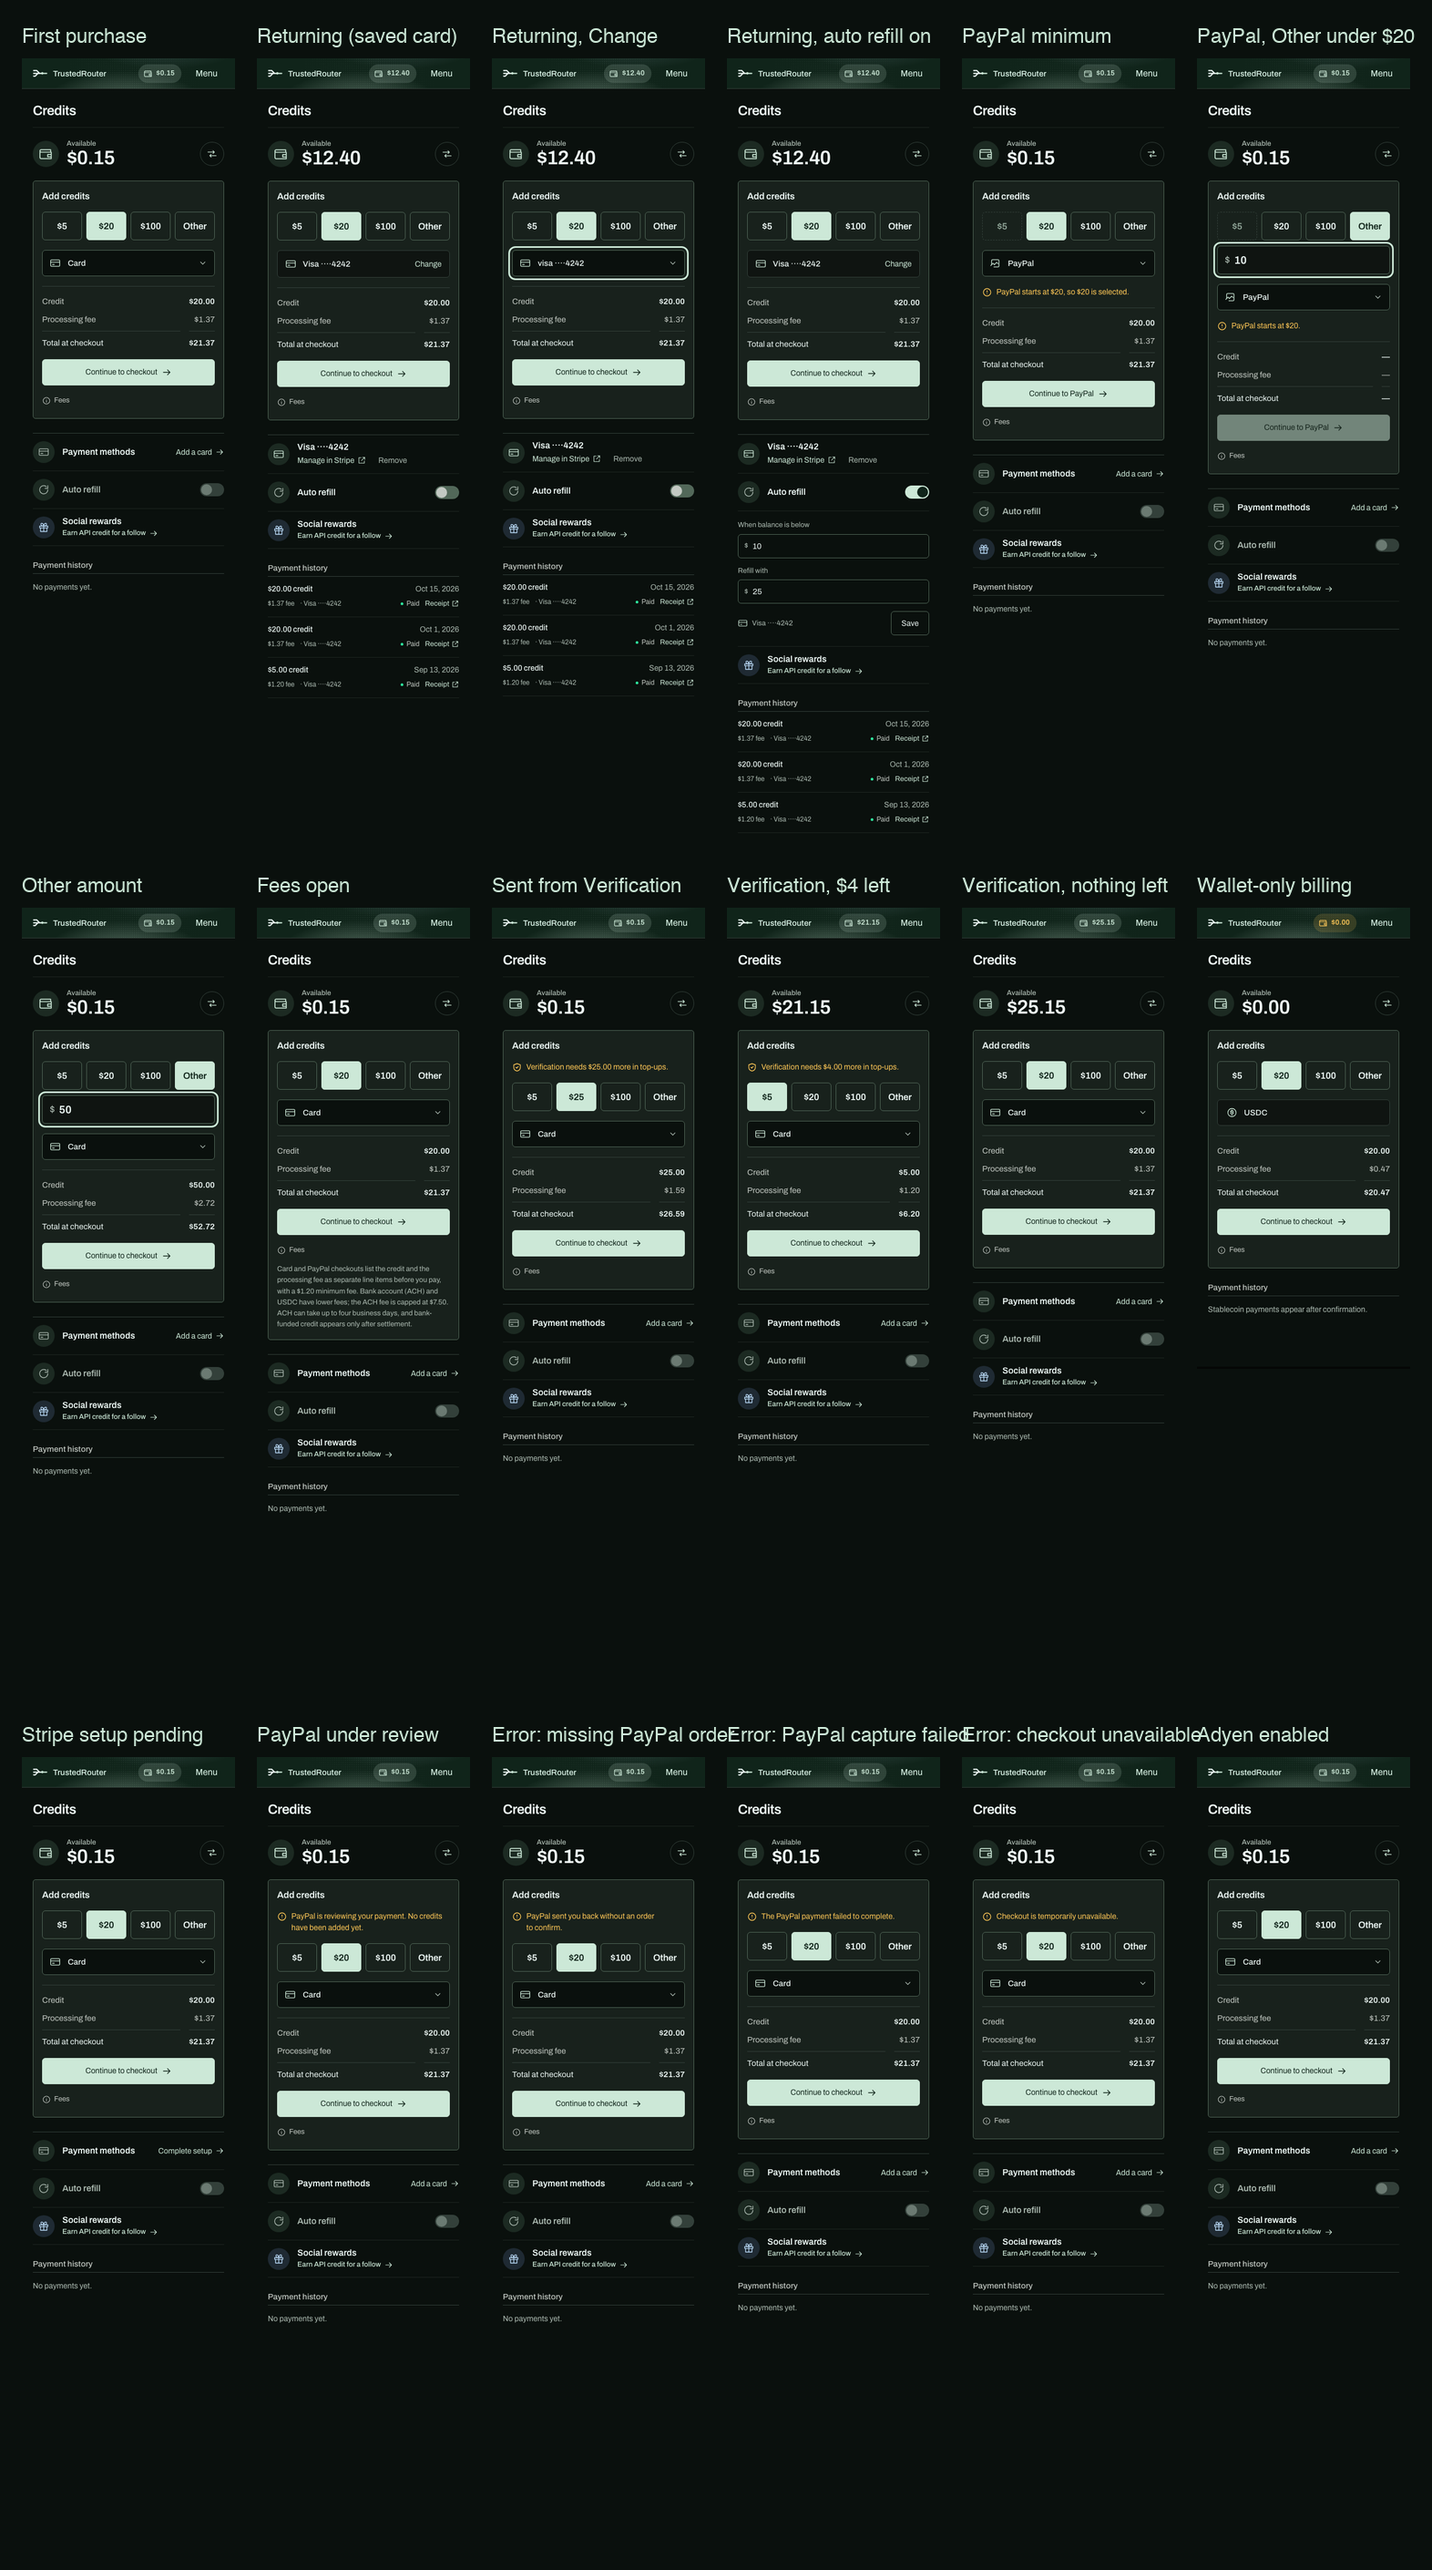
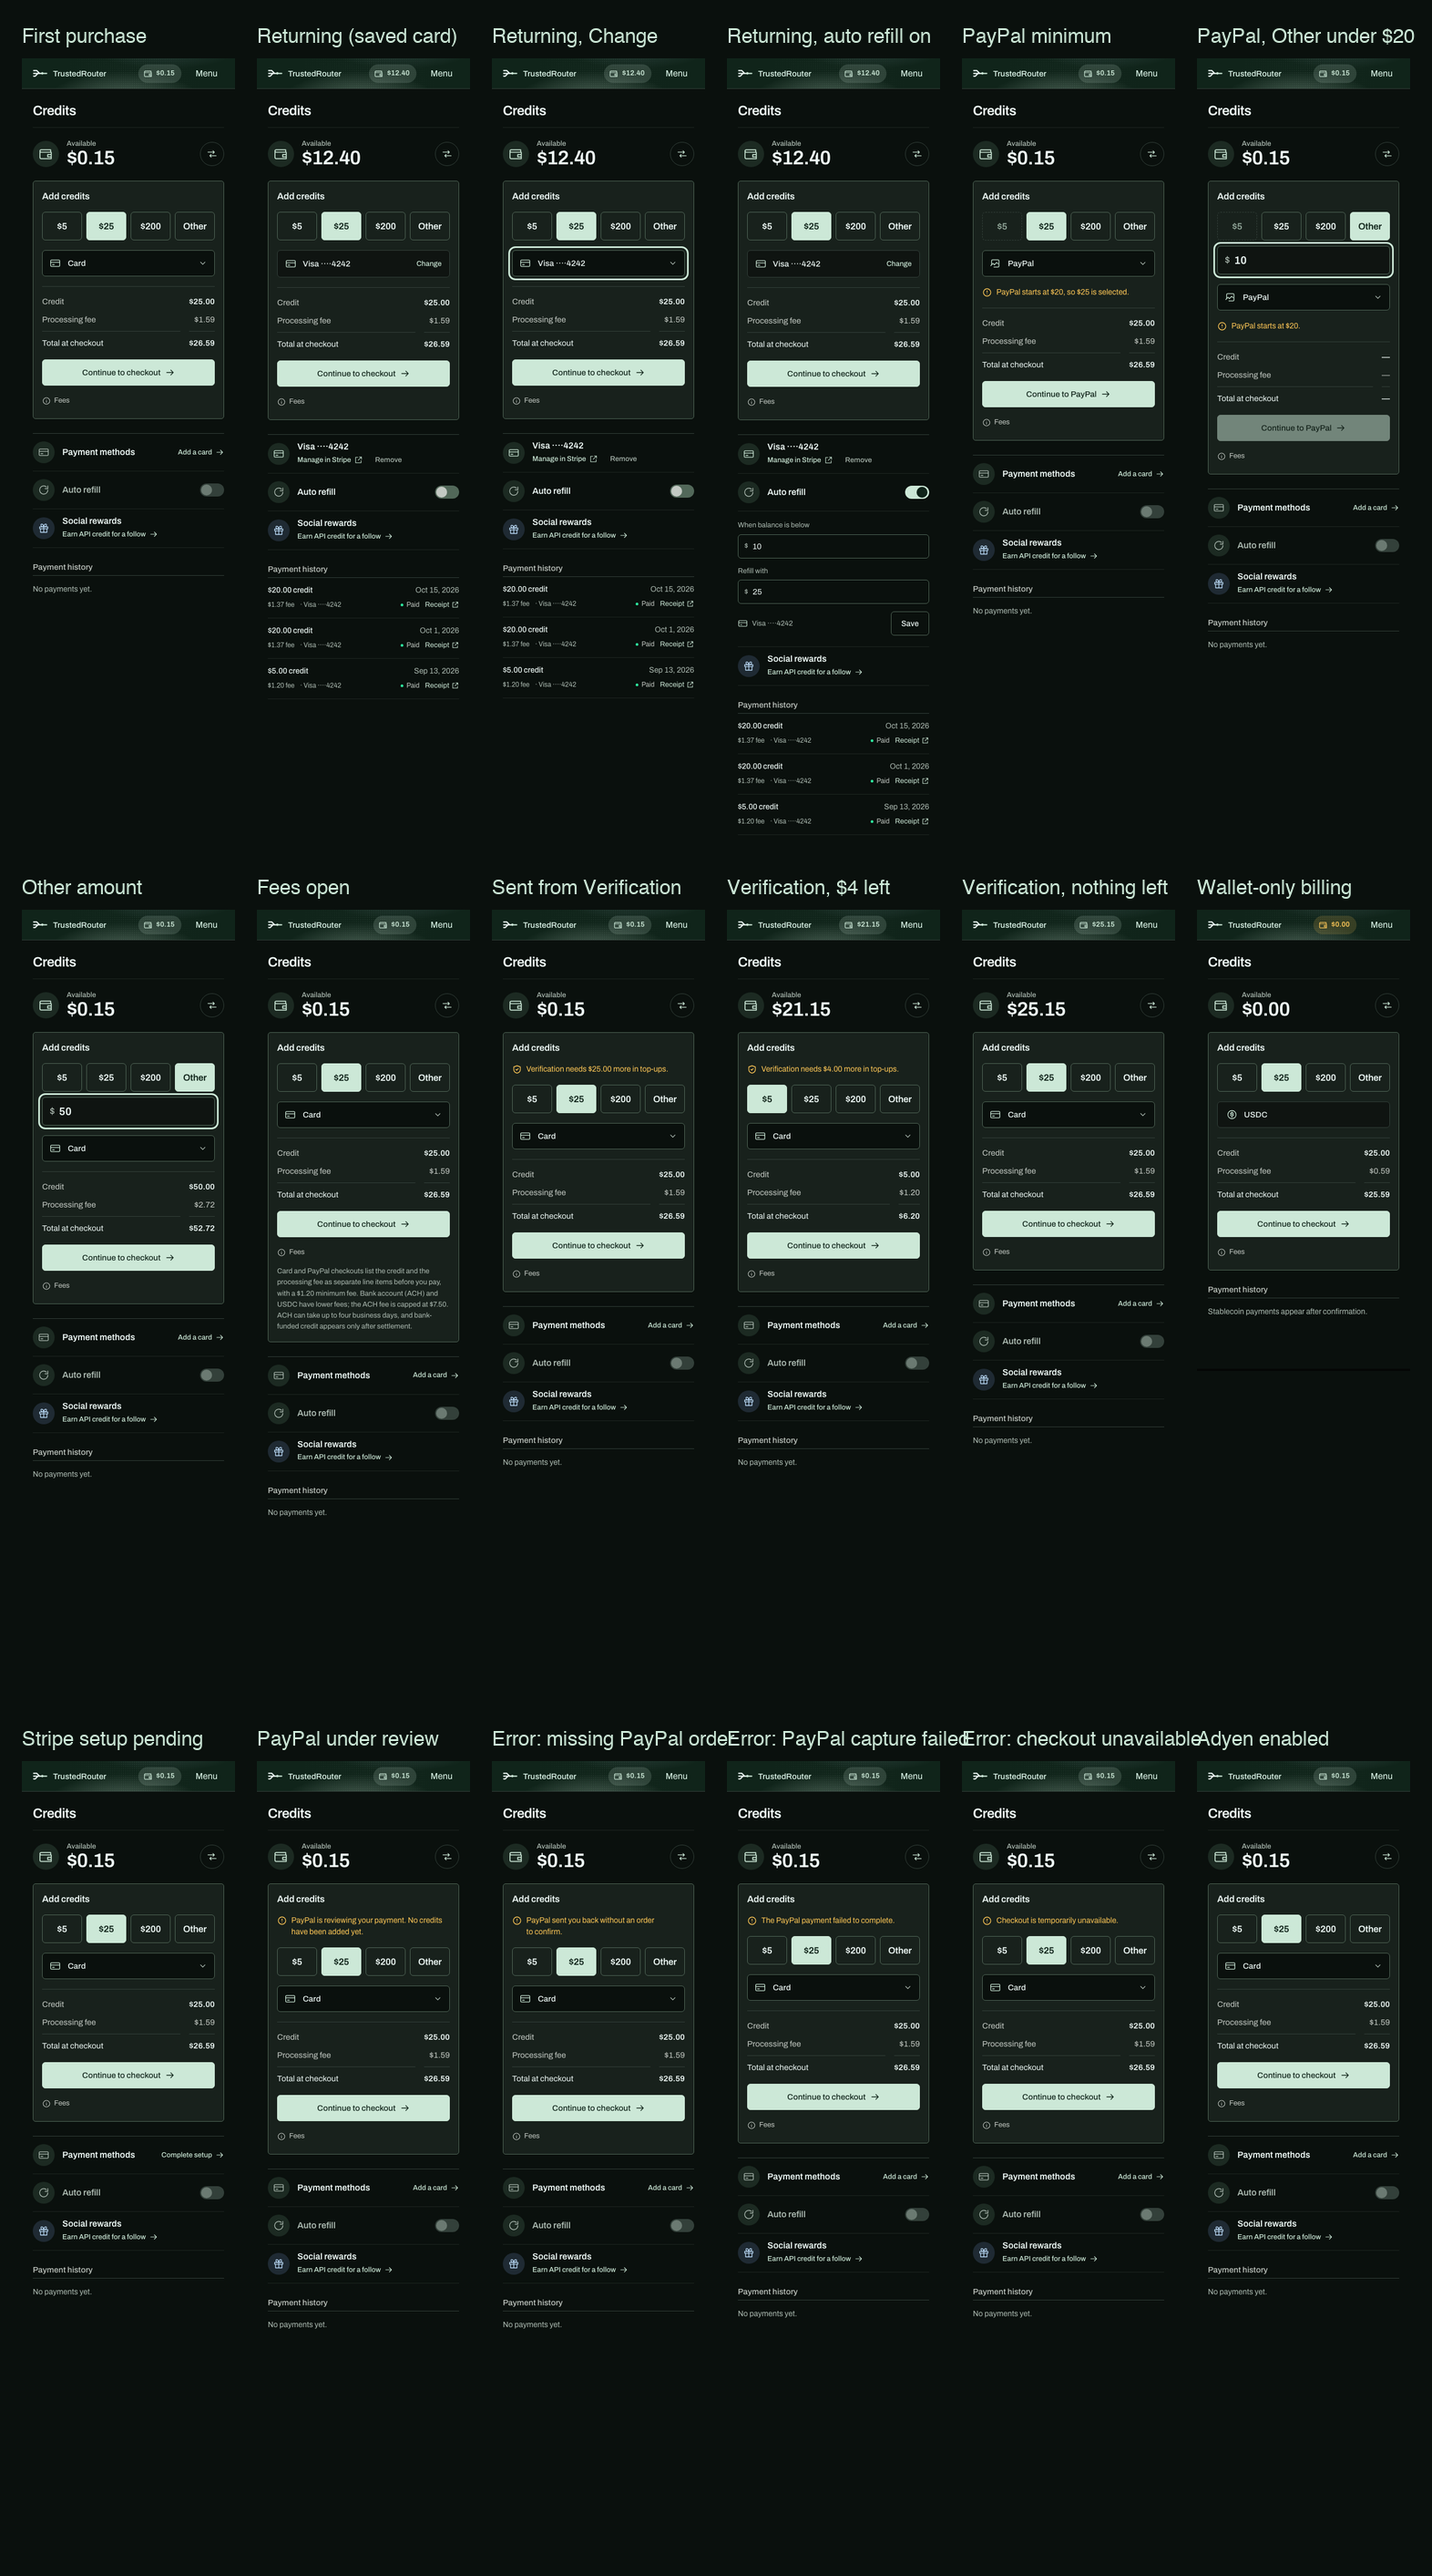
Offer $5, $25 and $200 presets with $25 selected
Ninety days of checkout data: $25 was the amount bought most and is what
identity verification asks for; $200 is what larger buyers pick, while
almost nobody chose $100. The state sheets are recaptured.

diff --git a/tests/browser/credits.spec.js b/tests/browser/credits.spec.js
@@ -18,10 +18,10 @@ function credits(state = {}) {
     workspaces: [{ id: '0', name: 'Personal workspace' }], current_workspace_id: '0',
     console_next_path: '/console/credits', user_email: 'test@example.test', active: 'credits',
     page_title: 'Credits', provider_mode: false, credits_available: '$0.15', credits_empty: false,
-    checkout_presets: [5, 20, 100], checkout_selected_preset: 20,
+    checkout_presets: [5, 25, 200], checkout_selected_preset: 25,
     checkout_fee_schedule_json: JSON.stringify({ rails: { auto: 'card', card: 'card', paypal: 'card', ach: 'ach', stablecoin: 'stablecoin', adyen: 'adyen' }, rates: schedule }),
     paypal_minimum_dollars: 20,
-    checkout_summary: { credit: '$20.00', fee: '$1.37', total: '$21.37' },
+    checkout_summary: { credit: '$25.00', fee: '$1.59', total: '$26.59' },
     stripe_paypal_minimum_fee_display: '$1.20', stripe_ach_maximum_fee_display: '$7.50',
     paypal_enabled: true, adyen_enabled: false, wallet_only_billing: false,
     has_payment_method: false, payment_method_pending: false, has_stripe_customer: false,
@@ -57,14 +57,14 @@ const preset = (page, label) => page.getByRole('radio', { name: label, exact: tr
 for (const width of [320, 390, 1280]) test(`presets, method and fee summary at ${width}px`, async ({ page }) => {
   await page.setViewportSize({ width, height: 900 });
   await load(page);
-  await expect(preset(page, '$20')).toBeChecked();
-  expect(await summary(page)).toEqual(['$20.00', '$1.37', '$21.37']);
+  await expect(preset(page, '$25')).toBeChecked();
+  expect(await summary(page)).toEqual(['$25.00', '$1.59', '$26.59']);
   await expect(page.locator('.credits-other')).toBeHidden();
 
-  await preset(page, '$100').check();
-  expect(await summary(page)).toEqual(['$100.00', '$4.95', '$104.95']);
+  await preset(page, '$200').check();
+  expect(await summary(page)).toEqual(['$200.00', '$9.44', '$209.44']);
   await page.getByLabel('Payment method').selectOption('ach');
-  expect(await summary(page)).toEqual(['$100.00', '$1.22', '$101.22']);
+  expect(await summary(page)).toEqual(['$200.00', '$2.43', '$202.43']);
   await expect(page.locator('.credits-select')).toHaveAttribute('data-method', 'bank');
   await page.getByLabel('Payment method').selectOption('stablecoin');
   await preset(page, '$5').check();
@@ -83,21 +83,21 @@ for (const width of [320, 390, 1280]) test(`presets, method and fee summary at $
   await expect(page.getByRole('button', { name: 'Continue to checkout' })).toBeEnabled();
 
   // Segments share one row at every width and nothing scrolls sideways.
-  const boxes = await Promise.all(['$5', '$20', '$100', 'Other'].map((label) => preset(page, label).boundingBox()));
+  const boxes = await Promise.all(['$5', '$25', '$200', 'Other'].map((label) => preset(page, label).boundingBox()));
   expect(new Set(boxes.map((box) => Math.round(box.y))).size).toBe(1);
   expect(await page.evaluate(() => document.documentElement.scrollWidth <= innerWidth)).toBeTruthy();
 });
 
-test('PayPal disables $5, bumps to $20 and names the minimum', async ({ page }) => {
+test('PayPal disables $5, bumps to $25 and names the minimum', async ({ page }) => {
   await page.setViewportSize({ width: 1280, height: 900 });
   const posts = await load(page);
   await preset(page, '$5').check();
   await page.getByLabel('Payment method').selectOption('paypal');
   await expect(preset(page, '$5')).toBeDisabled();
-  await expect(preset(page, '$20')).toBeChecked();
-  await expect(page.getByRole('status').filter({ hasText: 'PayPal starts at $20, so $20 is selected.' })).toBeVisible();
+  await expect(preset(page, '$25')).toBeChecked();
+  await expect(page.getByRole('status').filter({ hasText: 'PayPal starts at $20, so $25 is selected.' })).toBeVisible();
   await expect(page.getByRole('button', { name: 'Continue to PayPal' })).toBeEnabled();
-  expect(await summary(page)).toEqual(['$20.00', '$1.37', '$21.37']);
+  expect(await summary(page)).toEqual(['$25.00', '$1.59', '$26.59']);
   await expect(page.locator('.credits-select')).toHaveAttribute('data-method', 'wallet');
 
   await preset(page, 'Other').check();
@@ -123,20 +123,23 @@ test('PayPal disables $5, bumps to $20 and names the minimum', async ({ page }) 
 
 test('verification entry preselects the remaining amount and keeps the purpose', async ({ page }) => {
   await page.setViewportSize({ width: 390, height: 900 });
+  // $12 still owed: the middle preset becomes $12 and is selected.
   const posts = await load(page, {
-    checkout_presets: [5, 25, 100], checkout_selected_preset: 25, identity_verification_checkout: true,
-    verification_topup_line: true, verification_topup_remaining_display: '$25.00',
-    checkout_summary: { credit: '$25.00', fee: '$1.59', total: '$26.59' },
+    checkout_presets: [5, 12, 200], checkout_selected_preset: 12, identity_verification_checkout: true,
+    verification_topup_line: true, verification_topup_remaining_display: '$12.00',
+    checkout_summary: { credit: '$12.00', fee: '$1.20', total: '$13.20' },
   });
-  await expect(page.getByRole('status').filter({ hasText: 'Verification needs $25.00 more in top-ups.' })).toBeVisible();
-  await expect(preset(page, '$25')).toBeChecked();
-  expect(await summary(page)).toEqual(['$25.00', '$1.59', '$26.59']);
+  await expect(page.getByRole('status').filter({ hasText: 'Verification needs $12.00 more in top-ups.' })).toBeVisible();
+  await expect(preset(page, '$12')).toBeChecked();
+  expect(await summary(page)).toEqual(['$12.00', '$1.20', '$13.20']);
   await page.getByLabel('Payment method').selectOption('paypal');
-  await expect(page.getByRole('status').filter({ hasText: 'PayPal starts at $20' })).toBeHidden();
+  await expect(preset(page, '$12')).toBeDisabled();
+  await expect(preset(page, '$200')).toBeChecked();
+  await expect(page.getByRole('status').filter({ hasText: 'PayPal starts at $20, so $200 is selected.' })).toBeVisible();
   await page.getByRole('button', { name: 'Continue to PayPal' }).click();
   await expect.poll(() => posts.length).toBe(1);
   expect(posts[0].body).toContain('purpose=identity_verification');
-  expect(posts[0].body).toContain('amount=25');
+  expect(posts[0].body).toContain('amount=200');
   expect(posts[0].body).not.toContain('other_amount');
 });
 
@@ -219,11 +222,11 @@ test('keyboard order reaches every control and the fee note opens', async ({ pag
       return `${el.tagName.toLowerCase()}:${el.getAttribute('aria-label') || el.textContent.trim().slice(0, 24) || el.value}`;
     }));
   }
-  // The radio group is one tab stop (the checked $20), then the select, the
+  // The radio group is one tab stop (the checked $25), then the select, the
   // button, Fees, then the first row's control. Without a saved card the
   // switch is disabled and the rewards row stays hidden, so neither stops.
   expect(names).toEqual([
-    'input:20', 'select:Payment method', 'button:Continue to checkout', 'summary:Fees', 'button:Add a card',
+    'input:25', 'select:Payment method', 'button:Continue to checkout', 'summary:Fees', 'button:Add a card',
   ]);
   await expect(page.getByRole('switch', { name: 'Auto refill' })).toBeDisabled();
   await page.getByText('Fees', { exact: true }).click();

diff --git a/tests/test_console_credits_page.py b/tests/test_console_credits_page.py
@@ -37,10 +37,10 @@ from trusted_router.storage import STORE
 # an 80c floor, ACH 0.8% capped at $5, USDC 1.5%, all x1.5; Adyen 0% + 0c with
 # the 80c floor and no surcharge).
 EXPECTED_FEE_CENTS: dict[FeeRail, dict[int, int]] = {
-    "card": {500: 120, 2000: 137, 2500: 159, 5000: 272, 10000: 495},
-    "ach": {500: 8, 2000: 26, 2500: 32, 5000: 62, 10000: 122},
-    "stablecoin": {500: 12, 2000: 47, 2500: 59, 5000: 116, 10000: 230},
-    "adyen": {500: 80, 2000: 80, 2500: 80, 5000: 80, 10000: 80},
+    "card": {500: 120, 2000: 137, 2500: 159, 5000: 272, 10000: 495, 20000: 944},
+    "ach": {500: 8, 2000: 26, 2500: 32, 5000: 62, 10000: 122, 20000: 243},
+    "stablecoin": {500: 12, 2000: 47, 2500: 59, 5000: 116, 10000: 230, 20000: 458},
+    "adyen": {500: 80, 2000: 80, 2500: 80, 5000: 80, 10000: 80, 20000: 80},
 }
 
 
@@ -130,26 +130,27 @@ def test_page_embeds_the_fee_schedule_and_the_default_summary() -> None:
     assert 'name="other_amount"' in page
     assert '<option value="ach">Bank account (ACH)</option>' in page
     assert 'data-method-icon="bank" data-methods="ach"' in page
-    # $20 on a card: $1.37 fee, $21.37 at checkout.
-    assert ">$20.00</dd>" in page
-    assert ">$1.37</dd>" in page
-    assert ">$21.37</dd>" in page
+    # $25 on a card: $1.59 fee, $26.59 at checkout.
+    assert ">$25.00</dd>" in page
+    assert ">$1.59</dd>" in page
+    assert ">$26.59</dd>" in page
     assert "Top up to keep prepaid routes flowing" not in page
     assert "Lifetime usage" not in page
     assert "Migration credits" not in page
 
 
 def test_checkout_presets_follow_the_verification_remainder() -> None:
-    assert checkout_presets(None) == ([5, 20, 100], 20)
-    assert checkout_presets(0) == ([5, 20, 100], 20)
-    assert checkout_presets(25 * MICRODOLLARS_PER_DOLLAR) == ([5, 25, 100], 25)
+    assert checkout_presets(None) == ([5, 25, 200], 25)
+    assert checkout_presets(0) == ([5, 25, 200], 25)
+    assert checkout_presets(25 * MICRODOLLARS_PER_DOLLAR) == ([5, 25, 200], 25)
+    assert checkout_presets(12 * MICRODOLLARS_PER_DOLLAR) == ([5, 12, 200], 12)
     # Partial cents round up to the next whole dollar.
-    assert checkout_presets(7 * MICRODOLLARS_PER_DOLLAR + 1) == ([5, 8, 100], 8)
-    assert checkout_presets(5 * MICRODOLLARS_PER_DOLLAR) == ([5, 20, 100], 5)
-    assert checkout_presets(1) == ([5, 20, 100], 5)
+    assert checkout_presets(7 * MICRODOLLARS_PER_DOLLAR + 1) == ([5, 8, 200], 8)
+    assert checkout_presets(5 * MICRODOLLARS_PER_DOLLAR) == ([5, 25, 200], 5)
+    assert checkout_presets(1) == ([5, 25, 200], 5)
     # A remainder at or past the last preset keeps the row in order.
-    assert checkout_presets(100 * MICRODOLLARS_PER_DOLLAR) == ([5, 20, 100], 100)
-    assert checkout_presets(150 * MICRODOLLARS_PER_DOLLAR) == ([5, 20, 100], 100)
+    assert checkout_presets(200 * MICRODOLLARS_PER_DOLLAR) == ([5, 25, 200], 200)
+    assert checkout_presets(250 * MICRODOLLARS_PER_DOLLAR) == ([5, 25, 200], 200)
 
 
 def test_verification_entry_preselects_the_remaining_amount() -> None:

diff --git a/src/trusted_router/routes/console/credits.py b/src/trusted_router/routes/console/credits.py
@@ -67,11 +67,13 @@ _PRIVATE_CREDITS_HEADERS = {
     "X-Robots-Tag": "noindex, nofollow",
 }
 
-# The Credits page offers three whole-dollar presets plus "Other". When the
-# page is opened from identity verification, the middle preset becomes the
-# remaining lifetime top-up instead (see ``checkout_presets``).
-CHECKOUT_PRESET_DOLLARS: tuple[int, int, int] = (5, 20, 100)
-CHECKOUT_DEFAULT_PRESET_DOLLARS = 20
+# The Credits page offers three whole-dollar presets plus "Other". $25 is the
+# amount people bought most and what identity verification asks for; $200 is
+# what larger buyers pick. When the page is opened from identity verification
+# the middle preset becomes the remaining lifetime top-up (see
+# ``checkout_presets``).
+CHECKOUT_PRESET_DOLLARS: tuple[int, int, int] = (5, 25, 200)
+CHECKOUT_DEFAULT_PRESET_DOLLARS = 25
 
 # Form value for the preset radio that reveals the free-amount field; the
 # dollar amount then arrives in ``other_amount``.
